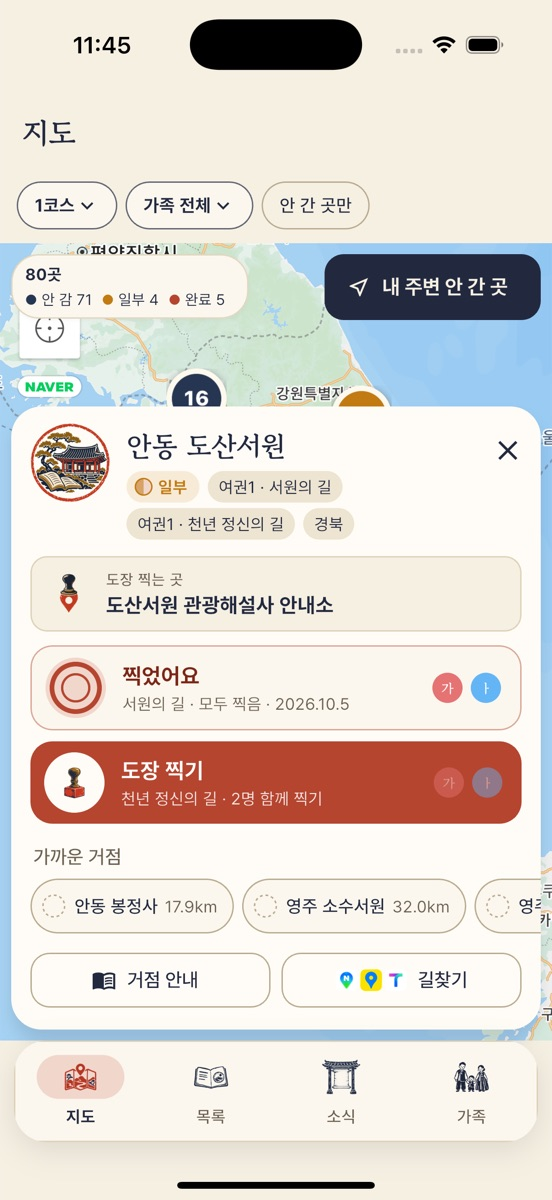
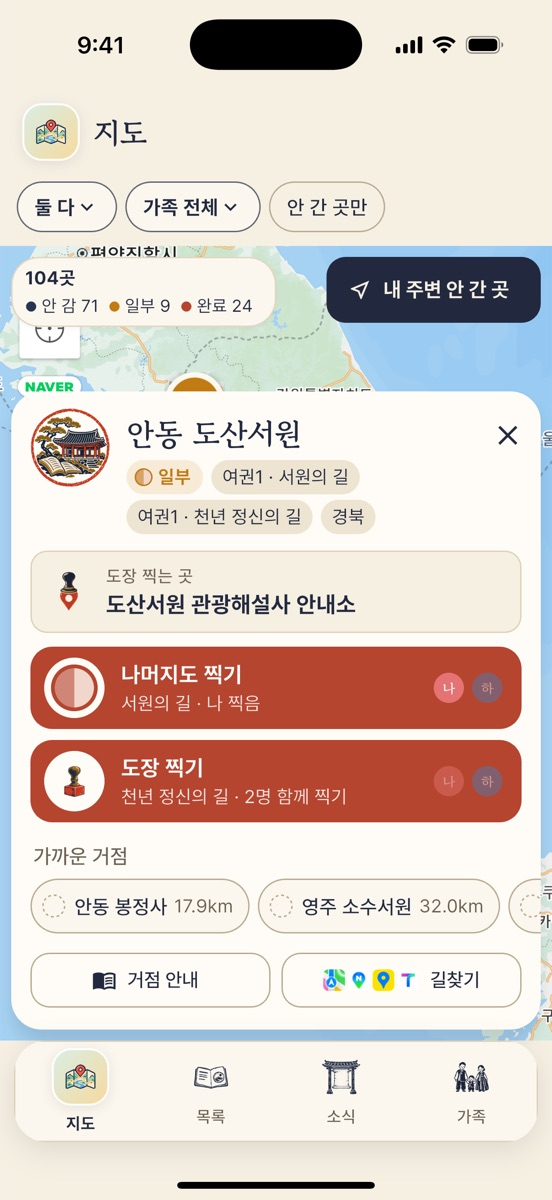
홈페이지 스크린샷 다시 찍기(Android·iPhone) · 거점 도장 칸 날짜 잘림 수정
상태바를 정리한 시뮬레이터·에뮬레이터 화면 6장으로 갤러리를 바꾼다(시연용 데이터).
거점 상세 사람별 도장 칸을 넓히고 "용지" 표시를 날짜 아래 줄로 내려 날짜가 잘리지 않게 한다.

diff --git a/index.html b/index.html
@@ -57,7 +57,7 @@
         <p class="note">회원가입·로그인 없이 바로 써요. 기록은 내 폰에만 저장돼요.</p>
       </div>
       <div class="phones" aria-hidden="true">
-        <div class="phone"><img src="img/shot-passport.jpg" alt="" width="540" height="1200"></div>
+        <div class="phone"><img src="img/shot-passport.jpg" alt="" width="552" height="1200"></div>
         <div class="phone"><img src="img/shot-map.jpg" alt="" width="552" height="1200"></div>
       </div>
     </div>
@@ -115,10 +115,12 @@
       <h2 class="serif">화면 둘러보기</h2>
       <p class="sub">종이 여권 느낌 그대로, 글자는 크게.</p>
       <div class="gallery">
-        <figure><div class="phone"><img src="img/shot-passport.jpg" alt="나의 여권 화면: 길별 도장 진행" width="540" height="1200" loading="lazy"></div><figcaption>나의 여권</figcaption></figure>
-        <figure><div class="phone"><img src="img/shot-map.jpg" alt="지도 화면: 거점 카드에서 도장 찍기" width="552" height="1200" loading="lazy"></div><figcaption>지도에서 바로 찍기</figcaption></figure>
-        <figure><div class="phone"><img src="img/shot-family.jpg" alt="우리 가족 화면: 사람별 진행률과 다음 기념품" width="540" height="1200" loading="lazy"></div><figcaption>우리 가족</figcaption></figure>
-        <figure><div class="phone"><img src="img/shot-news.jpg" alt="소식 화면: 공식 공지 정리" width="540" height="1200" loading="lazy"></div><figcaption>공식 소식</figcaption></figure>
+        <figure><div class="phone"><img src="img/shot-passport.jpg" alt="나의 여권 화면: 길을 펼쳐 거점별 도장 확인" width="552" height="1200" loading="lazy"></div><figcaption>나의 여권<span>Android</span></figcaption></figure>
+        <figure><div class="phone"><img src="img/shot-map.jpg" alt="지도 화면: 거점 카드에서 바로 도장 찍기" width="552" height="1200" loading="lazy"></div><figcaption>지도에서 바로 찍기<span>iPhone</span></figcaption></figure>
+        <figure><div class="phone"><img src="img/shot-place.jpg" alt="거점 화면: 가족별 도장과 도장 위치 안내" width="552" height="1200" loading="lazy"></div><figcaption>거점별 도장·위치<span>Android</span></figcaption></figure>
+        <figure><div class="phone"><img src="img/shot-family.jpg" alt="우리 가족 화면: 사람별 진행률과 다음 기념품" width="552" height="1200" loading="lazy"></div><figcaption>우리 가족<span>iPhone</span></figcaption></figure>
+        <figure><div class="phone"><img src="img/shot-mapall.jpg" alt="지도 화면: 전국 거점 진행 상태" width="552" height="1200" loading="lazy"></div><figcaption>한눈에 보는 지도<span>Android</span></figcaption></figure>
+        <figure><div class="phone"><img src="img/shot-news.jpg" alt="소식 화면: 공식 공지 정리" width="552" height="1200" loading="lazy"></div><figcaption>공식 소식<span>iPhone</span></figcaption></figure>
       </div>
     </div>
   </section>

diff --git a/style.css b/style.css
@@ -45,6 +45,8 @@ body {
 }
 a { color: var(--stamp); }
 img { max-width: 100%; height: auto; display: block; }
+/* Android(1080×2400)·iPhone(1206×2622) 화면 비율 차이를 맞춘다 */
+.phone img { width: 100%; aspect-ratio: 552 / 1200; object-fit: cover; object-position: top; }
 .serif { font-family: "Gowun Batang", serif; font-weight: 700; }
 .wrap { max-width: 1040px; margin: 0 auto; padding: 0 20px; }
 
@@ -110,10 +112,11 @@ section .sub { color: var(--ink-soft); margin: 0 0 28px; }
 .feature h3 { margin: 0 0 6px; font-size: 1.1rem; }
 .feature p { margin: 0; color: var(--ink-soft); font-size: .97rem; }
 
-.gallery { display: grid; grid-template-columns: repeat(4, 1fr); gap: 18px; }
+.gallery { display: grid; grid-template-columns: repeat(3, 1fr); gap: 28px 24px; max-width: 860px; margin: 0 auto; }
 .gallery figure { margin: 0; }
 .gallery .phone { width: 100%; border-width: 5px; border-radius: 24px; }
-.gallery figcaption { text-align: center; margin-top: 10px; color: var(--ink-soft); font-size: .95rem; }
+.gallery figcaption { text-align: center; margin-top: 10px; color: var(--ink); font-size: .98rem; font-weight: 600; }
+.gallery figcaption span { display: block; font-weight: 400; font-size: .82rem; color: var(--ink-soft); }
 
 .dashed { border: 0; border-top: 1.5px dashed var(--line); margin: 0; }
 
